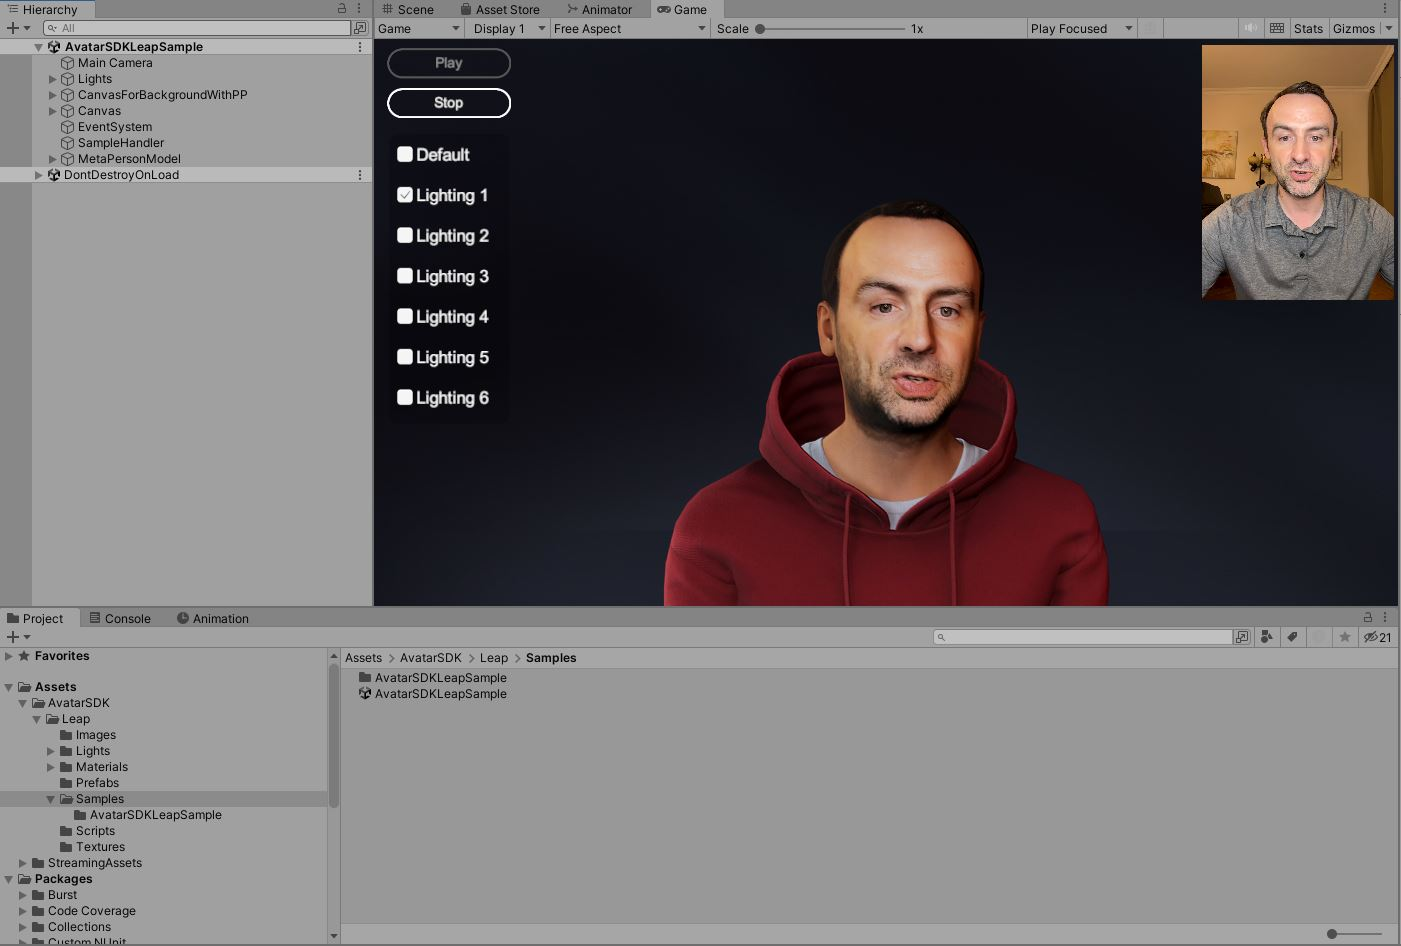
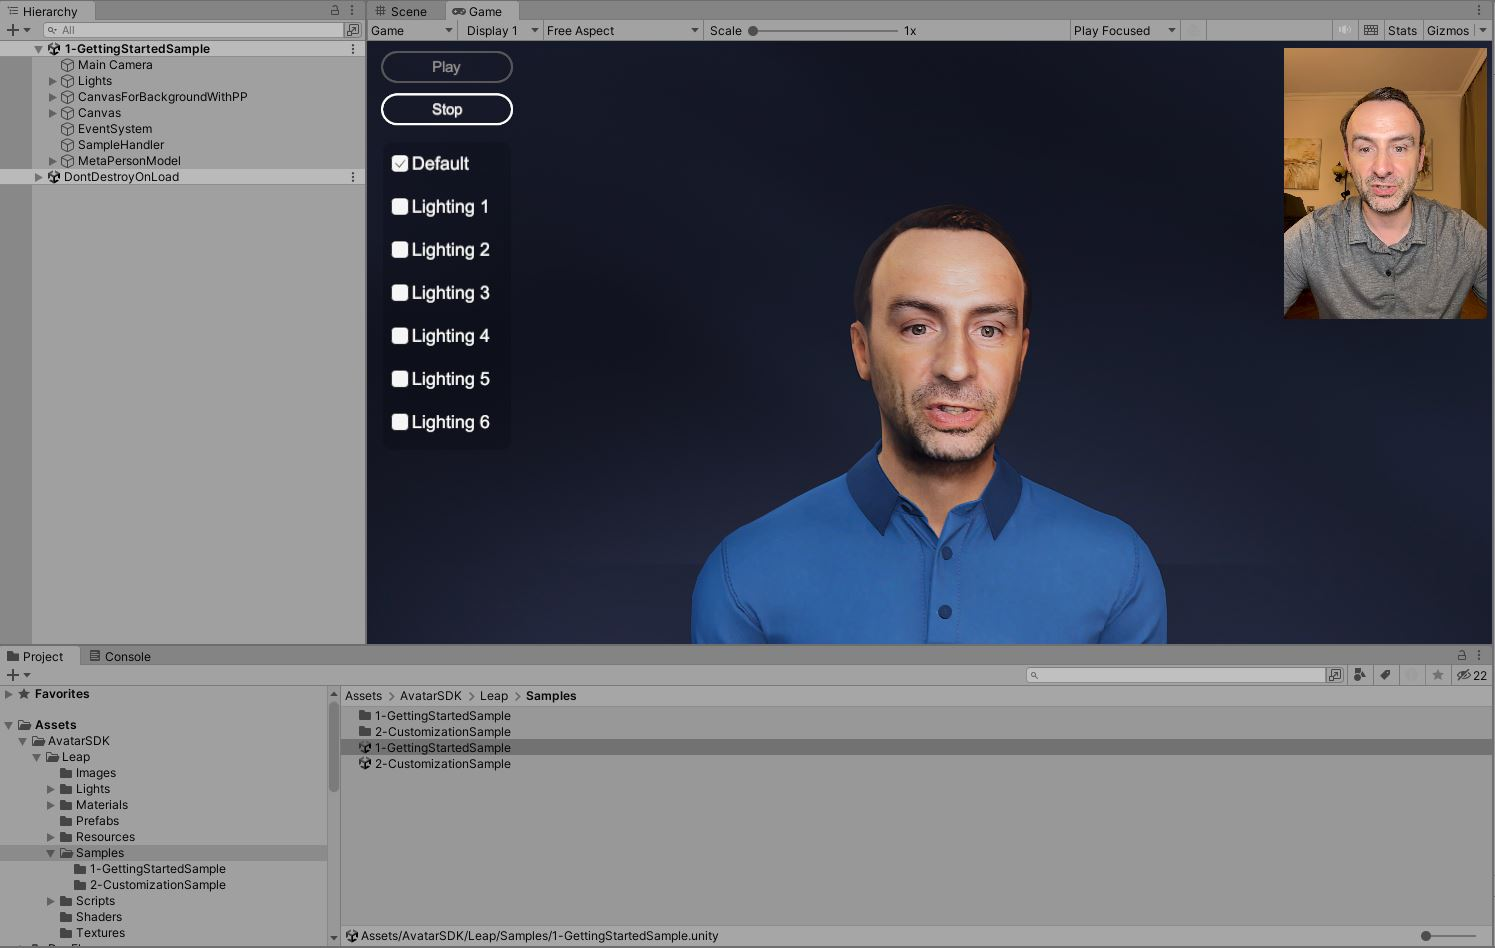
Updated docs for Leap Unity plugin

Changed region(s): [[0.0, 0.0, 1.0, 1.0], [0.8594, 0.092, 1.0, 0.3372], [0.2148, 0.981, 0.4911, 1.0]]

diff --git a/docs/leap.md b/docs/leap.md
@@ -158,13 +158,55 @@ With just a few clicks, the **Avatar SDK Leap Unity plugin** creates a realistic
 
 1. Download and extract the archive containing the **Avatar SDK Leap Unity project**.
 2. Open the project in **Unity 2022.3.17f1** or later.
-3. Open the `Assets/AvatarSDK/Leap/Samples/AvatarSDKLeapSample.unity` scene.
+3. Open the `Assets/AvatarSDK/Leap/Samples/1-GettingStartedSample.unity` scene.
 4. Press the **Play** button in the Unity Editor to run the scene.  
-5. Use the **Select Archive** button to choose the archive containing captured data from the iPhone **Leap application**.  
+5. Use the **Select Archive** button to choose the archive containing captured data from the iPhone **Leap application**. 
+There is an archive with the sample avatar in `Assets/StreamingAssets/itseez3d/avatar_sdk_leap/sample_avatar` directory. You can use it, if you don't have the **Leap application**.
 6. Select the avatar's gender and press **Generate** to compute the 3D avatar model and its animation.  
 7. After computation, press the **Play** button to preview the animation.
 
 ![](./img/leap_unity_sample.jpg)
+
+### Customization Sample
+
+This sample demonstrates how to customize a generated avatar by modifying its haircut and outfit using the [MetaPerson Creator](https://metaperson.avatarsdk.com/). 
+The **MetaPerson Creator** page is displayed within a web view component in the Unity scene. 
+The process involves generating a local avatar, selecting haircuts and outfits via **MetaPerson Creator**, and downloading the customized avatar back to display on the scene.
+
+#### Dependencies
+1. **Web View Component**
+
+To show the [MetaPerson Creator](https://metaperson.avatarsdk.com/) page in the Unity scene, a web view component is required. 
+This sample uses the [Vuplex Web View](https://store.vuplex.com/webview/windows-mac). Contact us for a 20% discount on this plugin.
+
+2. **File Browsing Support**
+
+To open a file selection dialog in a standalone Windows application, the sample uses the [Open File Dialog for Windows](https://assetstore.unity.com/packages/tools/utilities/open-file-dialog-for-windows-282619) plugin.
+If using this plugin, add the `USE_FILE_DIALOG` script compilation definition to your project.
+
+#### Steps To Run
+1. Open the `Assets/AvatarSDK/Leap/Samples/2-CustomizationSample.unity` scene.
+2. In the Hierarchy tab, select the **SampleHandler** object. Provide your [developer credentials](getting_started#developer-credentials) in the corresponding fields within the Inspector tab.
+
+![](./img/leap_unity_credentials.jpg)
+
+3. Press the **Play** button in the Unity Editor to run the scene.
+4. Select an archive containing captured data from the iPhone **Leap application**, or generate a sample avatar.
+
+![](./img/leap_unity_archive_selection.JPG)
+
+5. While the animation is being processed, open the [MetaPerson Creator](https://metaperson.avatarsdk.com/) to customize the avatar.
+You can skip this step to use the default outfit and the "Generated" haircut.
+
+![](./img/leap_unity_customize_step.JPG)
+
+6. After completing the avatar customization, press the **Go Ahead** button to download the updated model and display it in the scene.
+
+![](./img/leap_unity_export_step.JPG)
+
+7. Once the model is loaded, press the **Play** button to run the animation.
+
+![](./img/leap_unity_play_animation_step.JPG)
 
 ### How It Works
 
@@ -202,28 +244,56 @@ else
   Debug.LogError("Failed to load avatar model");
 ```
 
-## Windows Demo Application
+#### Avatar Customization
+The [MetaPerson Creator](https://metaperson.avatarsdk.com/) is used to customize the avatar. 
+For detailed steps on integrating **MetaPerson Creator** into a Unity desktop application, refer to the [MetaPerson Creator Integration Guide](business-integration/unity/windows_and_macos).
 
-We provide a Windows demo application that allows you to quickly generate a sample avatar and explore how this technology works.
-The application is based on a Unity sample but does not require a Unity installation.
+To generate an avatar, send a `generate_leap_avatar` event message to **MetaPerson Creator** using the [JS API](js_api). This message must include:
+* **Avatar gender**: Specify the desired gender.
+* **Base64-encoded ZIP archive**: A ZIP archive containing the following files:
+  * `photo.jpg`
+  * `data.bin`
+  * `faceGeometry1.obj`
 
-![](./img/leap_demo_app.png)
+These files can be extracted from the archive created by the iPhone **Leap application**.
 
-### How To Run
+Here’s an example message structure:
 
-1. **Download and extract** the archive containing the **Avatar SDK Leap Demo** application.
+```js
+let generateAvatarMessage = 
+{
+  'eventName': 'generate_leap_avatar',
+  'gender' : genderStr,
+  'zipArchiveBase64' : zipArchiveBase64Str
+};
+window.postMessage(generateAvatarMessage, '*');
+```
+
+Use the `LeapUtils.PrepareArchiveForCloudComputations` method to prepare an archive to send to **MetaPerson Creator**.
+
+```js
+byte[] archiveBytes = LeapUtils.PrepareArchiveForCloudComputations("local_leap_avatar_code");
+string base64Archive = Convert.ToBase64String(archiveBytes);
+```
+
+Once **MetaPerson Creator** receives the `generate_leap_avatar` message, it computes the avatar and allows you to customize it.
+
+To export the customized avatar and download it, use the [Export Avatar JS API](js_api#export-avatar) message.
+
+The animation generated by the **Avatar SDK Leap** Unity plugin can then be applied to the customized avatar.
+
+## Leap Demo Application For Windows
+
+We provide a **Leap Demo Application** that allows you to quickly generate an avatar and explore how this technology works.
+The application is based on the [Unity Customization Sample](#customization-sample) but does not require a Unity installation.
+
+![](./img/leap_demo_app.JPG)
+
+1. Download and extract the archive containing the **Avatar SDK Leap Demo** application.
 2. Run the **Avatar SDK Leap.exe** executable.
-3. Press the **Generate** button to compute the 3D avatar model and its animation.
-4. After computation, press the **Play** button to preview the animation.
-
-### Generating Custom Avatar
-
-If you'd like to compute a custom avatar model using captured data:
-
-1. Obtain an archive with captured data from the iPhone **Leap application**.
-2. Renamed the archive to **avatarsdk_leap_source.zip**.
-3. Replace the archive in the **Avatar SDK Leap_Data\StreamingAssets** directory.
-4. Run the application and press **Generate** to create the avatar.
+3. You can select an archive containing captured data from the iPhone **Leap application**, or generate a **sample avatar**.
+4. While the animation is being processed, press the **Customize** button to choose outfits and haircuts for the avatar. You can skip this step.
+5. After computation, press the **Play** button to preview the animation.
 
 ## Support
 Please feel free to ask any questions about the Avatar SDK Leap at support@avatarsdk.com
